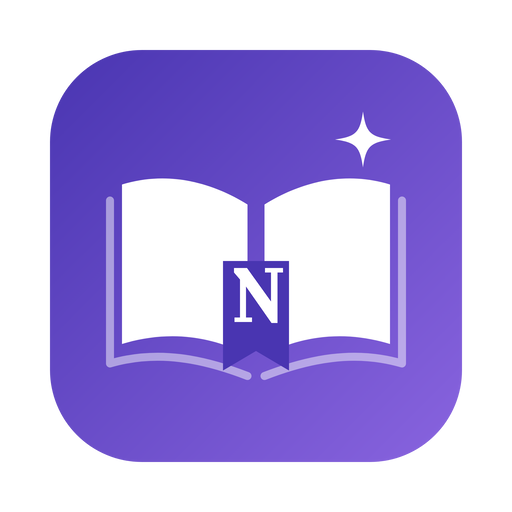
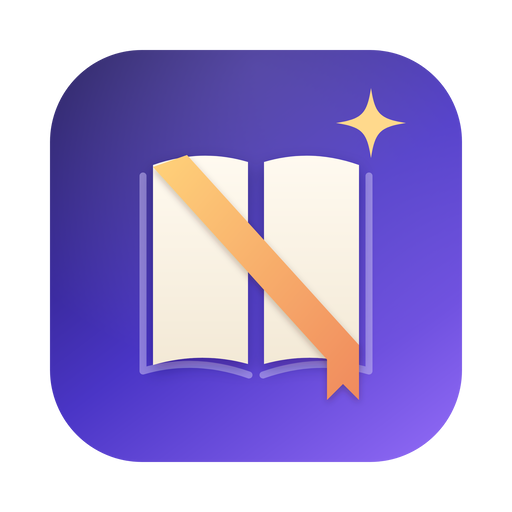
New Novely mark, brand page and social share card

diff --git a/brand.html b/brand.html
@@ -4,7 +4,7 @@
   <meta charset="utf-8">
   <meta name="viewport" content="width=device-width,initial-scale=1">
   <meta name="robots" content="noindex">
-  <title>Novely — the refined mark</title>
+  <title>Novely — the mark</title>
   <link rel="icon" href="assets/favicon.png" type="image/png">
   <link rel="stylesheet" href="assets/site.css">
   <style>
@@ -14,10 +14,10 @@
 <body>
   <header class="shell header-review"><a class="brand" href="index.html"><img src="assets/novely-icon.svg" width="44" height="44" alt=""><span>Novely</span></a><a href="index.html">Back to the website</a></header>
   <main class="shell brand-review">
-    <div class="review-heading"><h1>A quieter mark.<br>A clearer identity.</h1><p>The same book, bookmark and idea spark. Fewer competing details, a stronger silhouette, and a wordmark that belongs beside a novel.</p></div>
+    <div class="review-heading"><h1>The book is the N.</h1><p>Two open pages stand as the uprights of an N, and the ribbon bookmark falling across the spine draws its diagonal. One gold spark for the ideas you bring to it. A book from afar, a letter up close.</p></div>
     <div class="review-comparison">
-      <section class="review-panel"><img src="assets/novely-icon-previous.png" width="340" height="340" alt="Previous Novely icon: lined pages, three sparkles, a small N bookmark, and a bright purple-pink field."><h2>Before</h2><p>Fine page lines, several sparkles and a shaded bookmark compete as the icon gets smaller.</p></section>
-      <section class="review-panel new"><img src="assets/novely-icon.svg" width="340" height="340" alt="Refined Novely icon: unlined open pages, one spark and a prominent N bookmark on muted indigo-violet."><h2>Refined</h2><p>Open pages, one idea spark and a larger N. No page lines, extra stars or bookmark shadow.</p></section>
+      <section class="review-panel"><img src="assets/novely-icon-previous.png" width="340" height="340" alt="Previous Novely icon: an open book with a small N on a bookmark tab and a white spark."><h2>Before</h2><p>A generic open book, with the N reduced to a small tab that disappears at icon sizes.</p></section>
+      <section class="review-panel new"><img src="assets/novely-icon.svg" width="340" height="340" alt="New Novely icon: two cream pages form the uprights of an N and a gold ribbon bookmark forms its diagonal, with a gold spark, on deep indigo."><h2>Now</h2><p>The whole mark is the letter: pages for the uprights, the ribbon for the diagonal. Warm paper and gold against ink indigo.</p></section>
     </div>
     <div class="review-lockups"><div class="review-lockup"><span class="brand"><img src="assets/novely-icon.svg" width="72" height="72" alt=""><span>Novely</span></span></div><div class="review-lockup dark"><span class="brand"><img src="assets/novely-icon.svg" width="72" height="72" alt=""><span>Novely</span></span></div></div>
     <div class="review-scales" aria-label="The new mark at small sizes">
@@ -27,7 +27,7 @@
       <figure><img src="assets/novely-icon.svg" width="64" height="64" style="--size:64px" alt="Novely icon at 64 pixels"><figcaption>64 px</figcaption></figure>
       <figure><img src="assets/novely-icon.svg" width="128" height="128" style="--size:128px" alt="Novely icon at 128 pixels"><figcaption>128 px</figcaption></figure>
     </div>
-    <section class="review-notes"><h2>One mark, everywhere.</h2><p>The website and every Mac app icon size are generated from the same vector artwork. The name is set in Lora, matching the literary typography of the site.</p><p>At favicon size, the book and spark carry recognition; the N becomes legible as the icon grows. This is an evolution of Novely’s identity, not a separate website logo.</p><a href="assets/novely-icon.svg" download="Novely.svg">Download the vector artwork</a></section>
+    <section class="review-notes"><h2>One mark, everywhere.</h2><p>The website and every Mac app icon size are generated from the same vector artwork. The name is set in Lora, matching the literary typography of the site.</p><p>At favicon size the pages and the gold diagonal still read as an N; the spark and the bookmark tail appear as the icon grows. Ink indigo, paper cream and ribbon gold are the brand colours.</p><a href="assets/novely-icon.svg" download="Novely.svg">Download the vector artwork</a></section>
   </main>
 </body>
 </html>

diff --git a/index.html b/index.html
@@ -11,7 +11,7 @@
   <meta property="og:description" content="A writing home for novels and picture books. Free to use. Made for Mac.">
   <meta property="og:type" content="website">
   <meta property="og:url" content="https://novly-story.github.io/">
-  <meta property="og:image" content="https://novly-story.github.io/assets/novely-editor-clean.png">
+  <meta property="og:image" content="https://novly-story.github.io/assets/novely-og.png">
   <meta name="twitter:card" content="summary_large_image">
   <link rel="canonical" href="https://novly-story.github.io/">
   <link rel="icon" type="image/png" sizes="32x32" href="assets/favicon.png">
